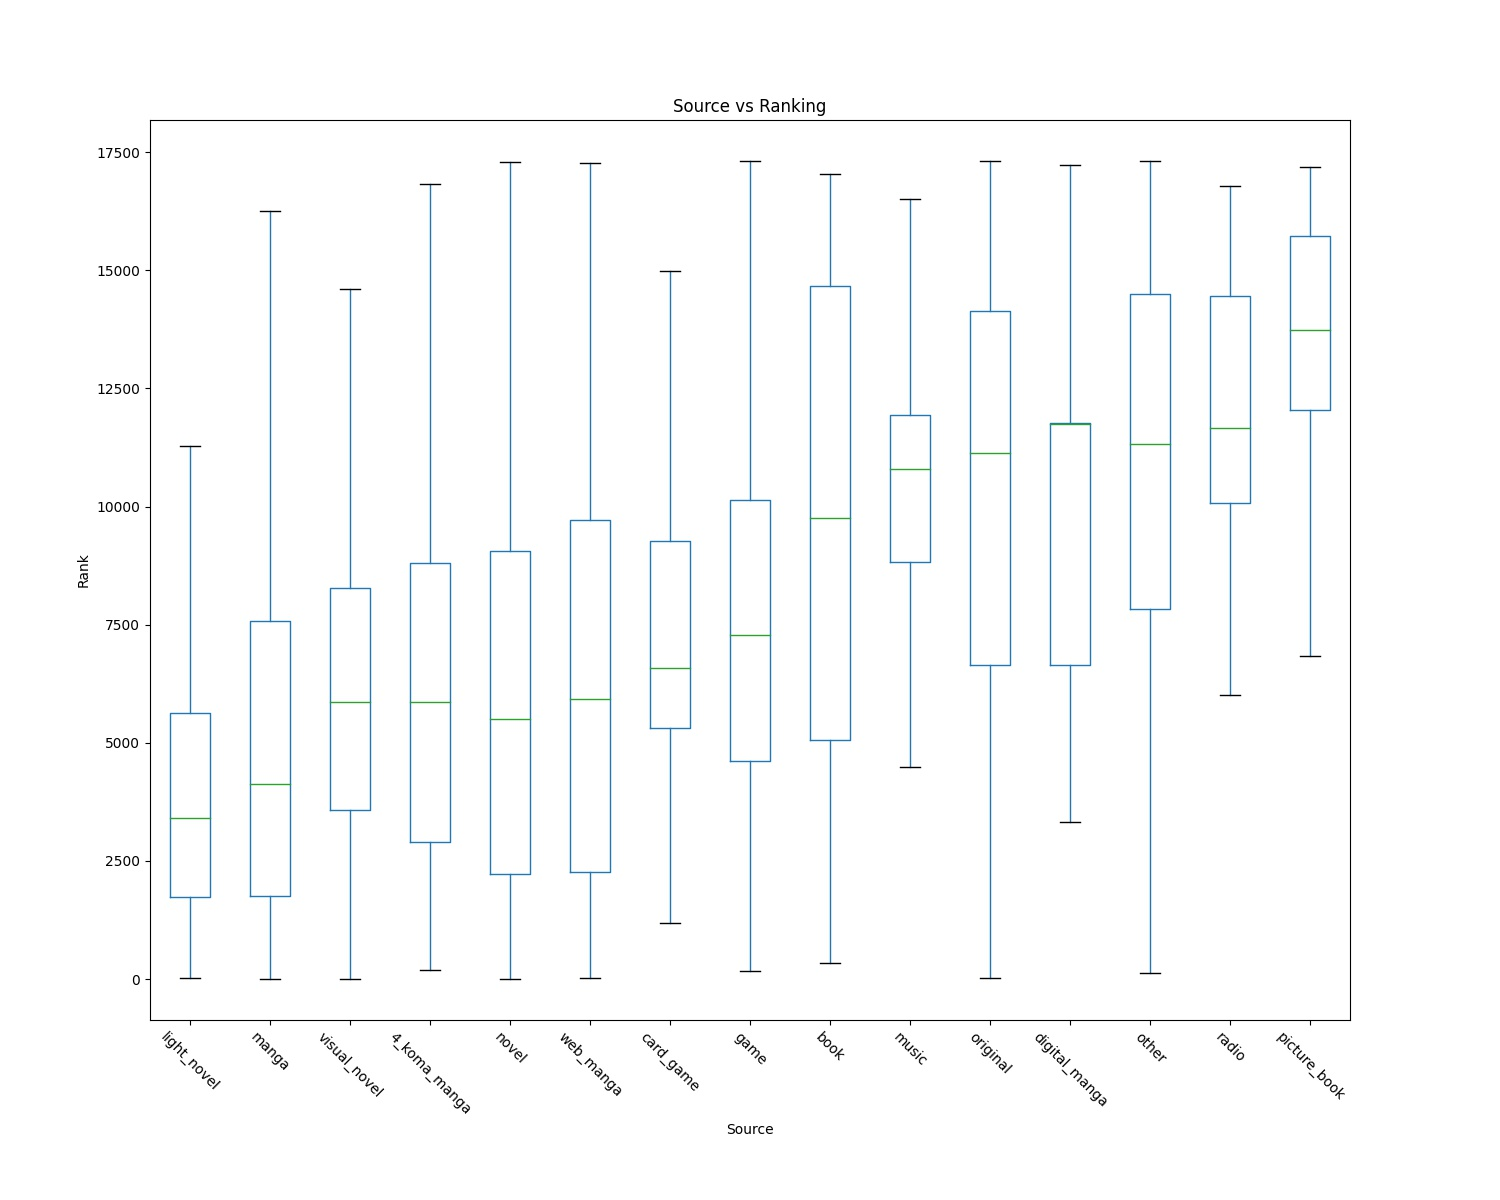
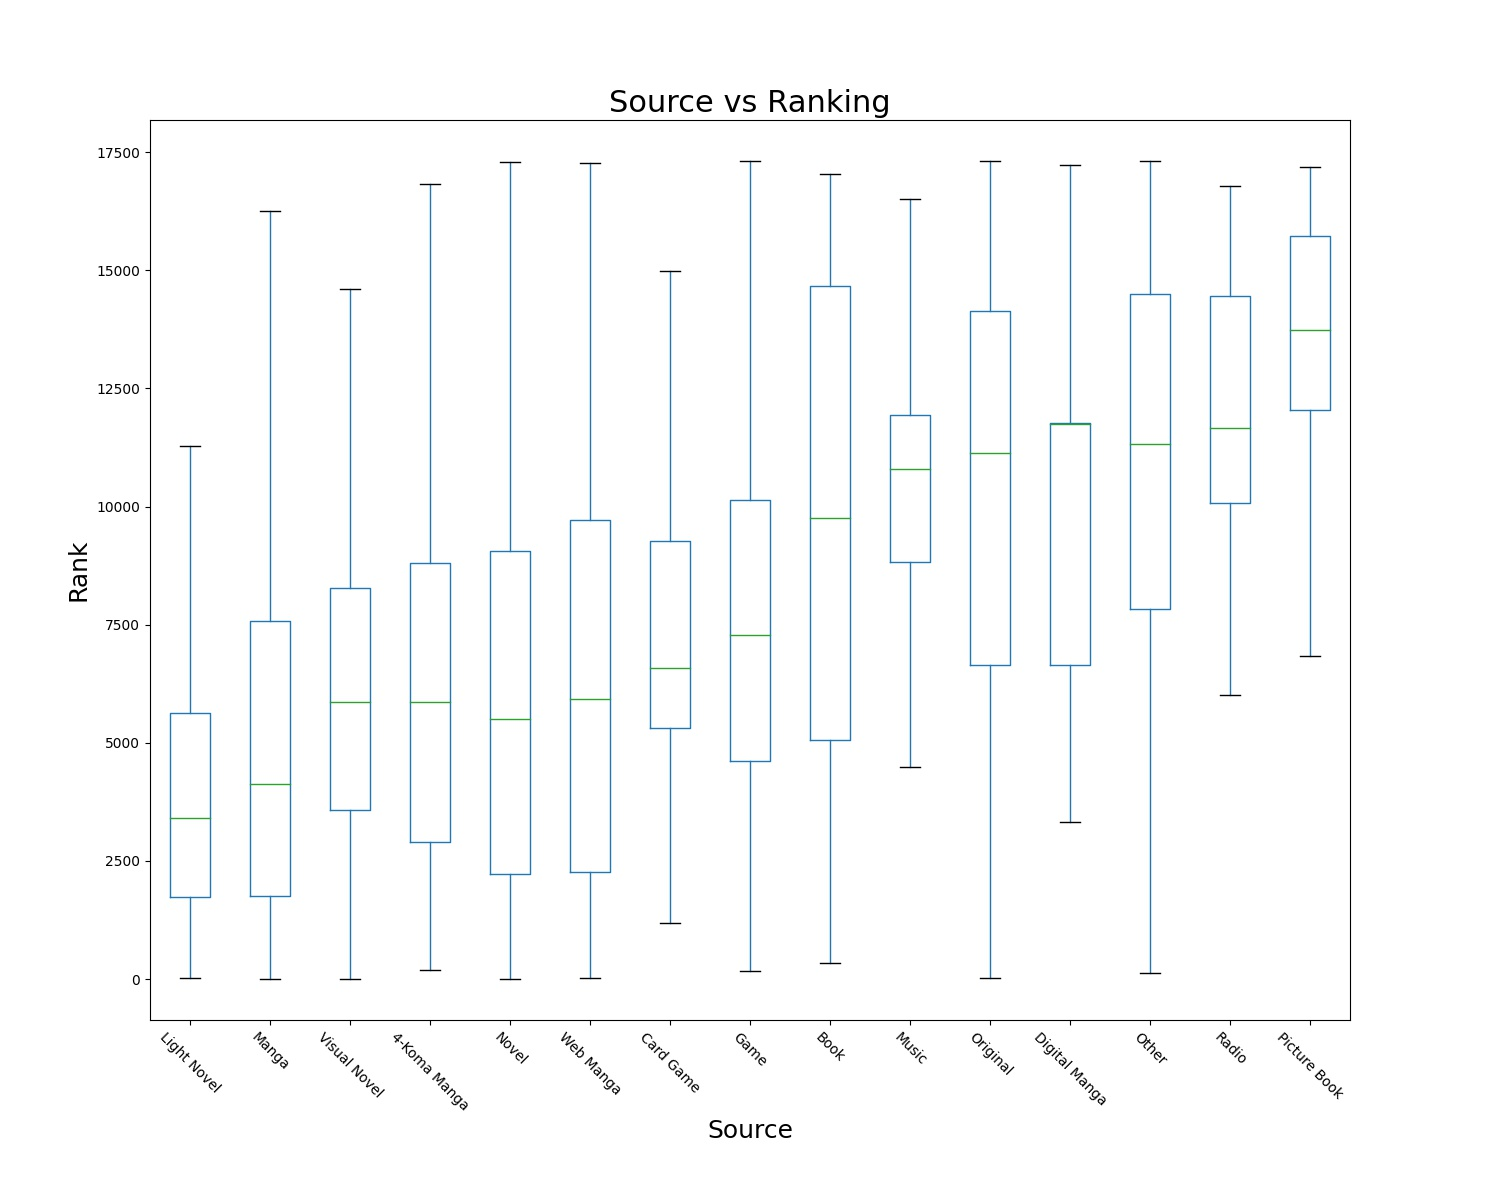
Use viewers avg and replace labels for sources

diff --git a/source_vs_popularity_rating.py b/source_vs_popularity_rating.py
@@ -15,20 +15,24 @@ df = df[['source', 'rank', 'num_list_users']]
 df.dropna(inplace=True)
 df['rank'] = df['rank'].astype(int)
 df = df[df['rank'] > 0]
+source_rename = {'4_koma_manga': '4-Koma Manga', 'book' : 'Book', 'card_game' : 'Card Game', 'digital_manga': 'Digital Manga', 'game':'Game', 'light_novel': 'Light Novel', 'manga': 'Manga', 'music': 'Music', 'novel': 'Novel', 'original': 'Original', 'other': 'Other', 'picture_book': 'Picture Book', 'radio': 'Radio', 'visual_novel': 'Visual Novel', 'web_manga': 'Web Manga'}
+df = df.replace({'source': source_rename})
 
 
 # get source vs popularity plot
 df_source_pop = df[['source','num_list_users']]
-df_source_pop = df_source_pop.groupby('source').agg({'num_list_users': 'sum'}).reset_index()
+df_source_pop = df_source_pop.groupby('source').agg({'num_list_users': 'mean'}).reset_index()
 
-fig = df_source_pop.plot(x='source', 
+axes = df_source_pop.plot(x='source', 
                         y='num_list_users', 
-                        xlabel='Source', 
-                        ylabel='Total No of Users', 
-                        kind='bar', 
-                        title = 'Total Number of Viewers vs Source', 
+                        kind='bar',
                         rot=-45, 
-                        figsize=(15,12)).get_figure()
+                        figsize=(15,12))
+axes.set_xlabel('Source', fontsize=18)
+axes.set_ylabel('Average No of Users', fontsize=18)
+axes.set_title('Average Number of Viewers vs Source', fontsize=22)
+fig = axes.get_figure()
+fig.suptitle('')
 fig.savefig(OUT_DIR+'source_vs_popularity.jpg')
 
 
@@ -36,11 +40,9 @@ fig.savefig(OUT_DIR+'source_vs_popularity.jpg')
 df_source_rating = df[['source','rank']]
 df_source_rating_mean = df_source_rating.groupby('source').agg({'rank': 'mean'}).reset_index()
 source_list = np.unique(df_source_rating_mean['source'])
-print(source_list)
 df_source_rating_mean.sort_values(['rank'], ascending=True, axis=0, inplace=True)
 source_list_ordered = df_source_rating_mean['source'].to_list()
 pos_list = [source_list_ordered.index(k) for k in source_list ]
-print(pos_list)
 
 axes = df_source_rating.boxplot('rank',
                         by='source',
@@ -49,9 +51,9 @@ axes = df_source_rating.boxplot('rank',
                         showfliers=False,
                         rot=-45, 
                         figsize=(15,12))
-axes.set_xlabel('Source')
-axes.set_ylabel('Rank')
-axes.set_title('Source vs Ranking')
+axes.set_xlabel('Source', fontsize=18)
+axes.set_ylabel('Rank', fontsize=18)
+axes.set_title('Source vs Ranking', fontsize=22)
 fig = axes.get_figure()
 fig.suptitle('')
 fig.savefig(OUT_DIR+'source_vs_ranking.jpg')
